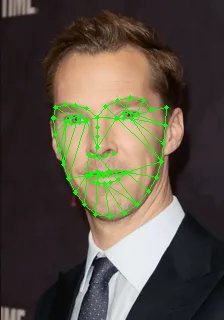
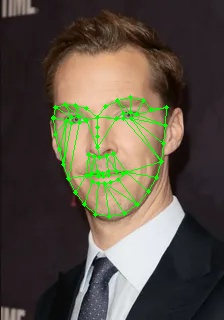
Изменено построение графа

diff --git a/FaseBiometricSystem.py b/FaseBiometricSystem.py
@@ -72,74 +72,173 @@ class FaceBiometricSystem:
         return new_x, new_y, new_w, new_h
 
     def _build_custom_face_graph(self, landmarks):
-        """Строит граф на основе пользовательских правил"""
+        """
+        Строит граф на основе пользовательских правил
+
+        Args:
+            landmarks: список точек (x, y) на лице
+
+        Returns:
+            graph: словарь {индекс_точки: [(сосед, вес), ...]}
+            edges: список ребер [(i, j, вес), ...]
+        """
         if not landmarks or len(landmarks) < 68:
-            return None
+            print(f"Предупреждение: получено {len(landmarks) if landmarks else 0} точек, ожидается 68")
+            return None, None
 
         points = np.array(landmarks)
         connections = []
 
-        # 1. КОНТУР ЛИЦА
+        # ==================== 1. КОНТУР ЛИЦА ====================
+        # Соединяем каждую соседнюю точку контура (0-16)
         for i in range(16):
             connections.append((i, i + 1))
 
-        # 2. БРОВИ
+        # ==================== 2. БРОВИ ====================
+        # Левая бровь (17-21) - соединяем соседние
         for i in range(17, 21):
             connections.append((i, i + 1))
+
+        # Правая бровь (22-26) - соединяем соседние
         for i in range(22, 26):
             connections.append((i, i + 1))
 
-        # 3. НОС
+        # ==================== 3. НОС (перевернутая буква Т) ====================
+        # Вертикальная линия носа (27-28-29-30-32)
         connections.extend([
-            (27, 28), (28, 29), (29, 30), (30, 32),
+            (27, 28), (28, 29), (29, 30), (30, 33)
+        ])
+
+        # Горизонтальная линия носа (ноздри 31 и 33 к центру 32)
+        connections.extend([
             (31, 32), (32, 33)
         ])
 
-        # 4. ГЛАЗА
+        # ==================== 4. ГЛАЗА ====================
+        # Левая глаз (36-41) - обводка
         connections.extend([
-            (36, 37), (37, 38), (38, 39), (39, 40), (40, 41), (41, 36),
+            (36, 37), (37, 38), (38, 39), (39, 40), (40, 41), (41, 36)
+        ])
+
+        # Правая глаз (42-47) - обводка
+        connections.extend([
             (42, 43), (43, 44), (44, 45), (45, 46), (46, 47), (47, 42)
         ])
 
-        # 5. ГУБЫ
+        # ==================== 5. ГУБЫ ====================
+        # Внешний контур губ (48-59)
         for i in range(48, 59):
             connections.append((i, i + 1))
-        connections.append((59, 48))
+        connections.append((59, 48))  # Замыкаем внешний контур
 
+        # Внутренний контур губ (60-67)
         for i in range(60, 67):
             connections.append((i, i + 1))
-        connections.append((67, 60))
+        connections.append((67, 60))  # Замыкаем внутренний контур
 
-        # 6. СВЯЗИ
+        # ==================== 6. СВЯЗИ: ВНУТРЕННИЕ УГЛЫ ГЛАЗ К ПЕРЕНОСИЦЕ ====================
         connections.extend([
-            (39, 27), (40, 27), (42, 27), (47, 27),
-            (36, 0), (36, 1), (36, 2), (36, 3),
-            (38, 3), (39, 4),
-            (45, 16), (45, 15),
-            (46, 15), (46, 14), (46, 13),
-            (18, 37), (19, 38), (20, 39),
-            (23, 44), (24, 43), (25, 45),
-            (31, 6), (33, 10),
-            (48, 4), (48, 5), (50, 7),
-            (54, 11), (54, 12), (54, 13),
-            (57, 10), (57, 8), (57, 9),
-            (17, 0), (22, 13),
-            (27, 21), (27, 22),
-            (30, 39), (30, 42)
+            (39, 27),  # Левый глаз (внутренний верхний) к переносице
+            (40, 27),  # Левый глаз (внутренний нижний) к переносице
+            (42, 27),  # Правый глаз (внутренний верхний) к переносице
+            (47, 27),  # Правый глаз (внутренний нижний) к переносице
+            (33, 34),
+            (34, 35),
         ])
 
+        # ==================== 7. СВЯЗИ: ВНЕШНИЕ УГЛЫ ГЛАЗ К КОНТУРУ ЛИЦА ====================
+        connections.extend([
+            (36, 0),  # Левый глаз (внешний угол) к левой верхней точке контура
+            (36, 1),  # Левый глаз (внешний угол) к левой верхней точке контура
+            (36, 2),  # Левый глаз (внешний угол) к левой верхней точке контура
+            (36, 3),  # Левый глаз (внешний угол) к левой верхней точке контура
+            (41, 3),  # Левый глаз (внешний угол) к левой верхней точке контура
+            (40, 4),  # Левый глаз (нижний внешний) к левой средней точке контура
+            (45, 16),  # Правый глаз (верхний внешний) к правой верхней точке контура
+            (45, 15),  # Правый глаз (верхний внешний) к правой верхней точке контура
+            (46, 15),  # Правый глаз (нижний внешний) к правой средней точке контура
+            (46, 14),  # Правый глаз (нижний внешний) к правой средней точке контура
+            (46, 13),  # Правый глаз (нижний внешний) к правой средней точке контура
+        ])
+
+        # ==================== 8. СВЯЗИ: БРОВИ К ВЕРХНИМ ТОЧКАМ ГЛАЗ ====================
+        connections.extend([
+            (18, 37),  # Левая бровь (внешняя середина) к левому глазу
+            (19, 38),  # Левая бровь (центр) к центру левого глаза
+            (19, 37),  # Левая бровь (центр) к центру левого глаза
+            (20, 38),  # Левая бровь (внутренняя середина) к внутреннему углу левого глаза
+            (20, 39),  # Левая бровь (внутренняя середина) к внутреннему углу левого глаза
+
+            (23, 44),  # Правая бровь (внутренняя середина) к центру правого глаза
+            (23, 43),  # Правая бровь (центр) к внутреннему углу правого глаза
+            (24, 44),  # Правая бровь (центр) к внутреннему углу правого глаза
+            (25, 45),  # Правая бровь (внешняя середина) к внешнему углу правого глаза
+            (26, 16),  # Правая бровь к контору лица
+        ])
+
+        # ==================== 9. СВЯЗИ: НОЗДРИ К КОНТУРУ ЛИЦА ====================
+        connections.extend([
+            (31, 48),
+            (31, 49),
+            (32, 49),
+            (32, 50),
+            (34, 53),
+            (34, 52),
+            (35, 53),
+            (35, 54),
+            (59, 6),  # Левая ноздря к левой средней точке контура
+            (55, 10),  # Правая ноздря к правой средней точке контура
+        ])
+
+        # ==================== 10. СВЯЗИ: УГОЛКИ ГУБ К КОНТУРУ ЛИЦА ====================
+        connections.extend([
+            (48, 4),  # Левый угол рта к нижней левой точке контура
+            (48, 5),  # Левый угол рта к нижней левой точке контура
+            (58, 7),  # Левый угол рта к нижней левой точке контура
+            (54, 11),  # Правый угол рта к нижней правой точке контура
+            (54, 12),  # Правый угол рта к нижней правой точке контура
+            (54, 13),  # Правый угол рта к нижней правой точке контура
+            (57, 10),  # Центр нижней губы к подбородку
+            (57, 8),  # Центр нижней губы к подбородку
+            (57, 9),  # Центр нижней губы к подбородку
+        ])
+
+        # ==================== ДОПОЛНИТЕЛЬНЫЕ СВЯЗИ ДЛЯ УЛУЧШЕНИЯ ====================
+        # Связи бровей с контуром лица
+        connections.extend([
+            (17, 0),  # Левая бровь (внешний край) к контуру
+            # (21, 4),  # Левая бровь (внутренний край) к контуру
+            (47, 13),  # Правая бровь (внутренний край) к контуру
+            # (26, 12),  # Правая бровь (внешний край) к контуру
+        ])
+
+        # Связи носа с бровями
+        connections.extend([
+            (27, 21),  # Переносица к левой брови
+            (27, 22),  # Переносица к правой брови
+        ])
+        # Кончик носа и уголки глаз
+        connections.extend([
+            (30, 39),
+            (30, 42),
+        ])
+
+        # Удаляем дубликаты
         connections = list(set(connections))
 
         # Создаем граф с весами
         n_points = len(points)
+        graph = {i: [] for i in range(n_points)}
         edges = []
 
         for i, j in connections:
             if i < n_points and j < n_points:
                 dist = self._calculate_distance(points[i], points[j])
+                graph[i].append((j, dist))
+                graph[j].append((i, dist))
                 edges.append((i, j, dist))
 
-        return edges
+        return edges #graph,
 
     def _extract_edge_features(self, landmarks, edges, reference_edge=(39, 4)):
         """Извлекает характеристики ребер"""

diff --git a/main_with_graph_k-neib.py b/main_with_graph_k-neib.py
@@ -99,7 +99,7 @@ def build_custom_face_graph(landmarks):
     # ==================== 3. НОС (перевернутая буква Т) ====================
     # Вертикальная линия носа (27-28-29-30-32)
     connections.extend([
-        (27, 28), (28, 29), (29, 30), (30, 32)
+        (27, 28), (28, 29), (29, 30), (30, 33)
     ])
 
     # Горизонтальная линия носа (ноздри 31 и 33 к центру 32)
@@ -135,6 +135,8 @@ def build_custom_face_graph(landmarks):
         (40, 27),  # Левый глаз (внутренний нижний) к переносице
         (42, 27),  # Правый глаз (внутренний верхний) к переносице
         (47, 27),  # Правый глаз (внутренний нижний) к переносице
+        (33, 34),
+        (34, 35),
     ])
 
     # ==================== 7. СВЯЗИ: ВНЕШНИЕ УГЛЫ ГЛАЗ К КОНТУРУ ЛИЦА ====================
@@ -143,8 +145,8 @@ def build_custom_face_graph(landmarks):
         (36, 1),  # Левый глаз (внешний угол) к левой верхней точке контура
         (36, 2),  # Левый глаз (внешний угол) к левой верхней точке контура
         (36, 3),  # Левый глаз (внешний угол) к левой верхней точке контура
-        (38, 3),  # Левый глаз (внешний угол) к левой верхней точке контура
-        (39, 4),  # Левый глаз (нижний внешний) к левой средней точке контура
+        (41, 3),  # Левый глаз (внешний угол) к левой верхней точке контура
+        (40, 4),  # Левый глаз (нижний внешний) к левой средней точке контура
         (45, 16),  # Правый глаз (верхний внешний) к правой верхней точке контура
         (45, 15),  # Правый глаз (верхний внешний) к правой верхней точке контура
         (46, 15),  # Правый глаз (нижний внешний) к правой средней точке контура
@@ -156,24 +158,36 @@ def build_custom_face_graph(landmarks):
     connections.extend([
         (18, 37),  # Левая бровь (внешняя середина) к левому глазу
         (19, 38),  # Левая бровь (центр) к центру левого глаза
+        (19, 37),  # Левая бровь (центр) к центру левого глаза
+        (20, 38),  # Левая бровь (внутренняя середина) к внутреннему углу левого глаза
         (20, 39),  # Левая бровь (внутренняя середина) к внутреннему углу левого глаза
 
         (23, 44),  # Правая бровь (внутренняя середина) к центру правого глаза
-        (24, 43),  # Правая бровь (центр) к внутреннему углу правого глаза
+        (23, 43),  # Правая бровь (центр) к внутреннему углу правого глаза
+        (24, 44),  # Правая бровь (центр) к внутреннему углу правого глаза
         (25, 45),  # Правая бровь (внешняя середина) к внешнему углу правого глаза
+        (26, 16),  # Правая бровь к контору лица
     ])
 
     # ==================== 9. СВЯЗИ: НОЗДРИ К КОНТУРУ ЛИЦА ====================
     connections.extend([
-        (31, 6),  # Левая ноздря к левой средней точке контура
-        (33, 10),  # Правая ноздря к правой средней точке контура
+        (31, 48),
+        (31, 49),
+        (32, 49),
+        (32, 50),
+        (34, 53),
+        (34, 52),
+        (35, 53),
+        (35, 54),
+        (59, 6),  # Левая ноздря к левой средней точке контура
+        (55, 10),  # Правая ноздря к правой средней точке контура
     ])
 
     # ==================== 10. СВЯЗИ: УГОЛКИ ГУБ К КОНТУРУ ЛИЦА ====================
     connections.extend([
         (48, 4),  # Левый угол рта к нижней левой точке контура
         (48, 5),  # Левый угол рта к нижней левой точке контура
-        (50, 7),  # Левый угол рта к нижней левой точке контура
+        (58, 7),  # Левый угол рта к нижней левой точке контура
         (54, 11),  # Правый угол рта к нижней правой точке контура
         (54, 12),  # Правый угол рта к нижней правой точке контура
         (54, 13),  # Правый угол рта к нижней правой точке контура
@@ -187,7 +201,7 @@ def build_custom_face_graph(landmarks):
     connections.extend([
         (17, 0),  # Левая бровь (внешний край) к контуру
         # (21, 4),  # Левая бровь (внутренний край) к контуру
-        (22, 13),  # Правая бровь (внутренний край) к контуру
+        (47, 13),  # Правая бровь (внутренний край) к контуру
         # (26, 12),  # Правая бровь (внешний край) к контуру
     ])
 
@@ -298,7 +312,7 @@ def main():
 
 
     # Загрузка изображения
-    image = cv2.imread('face.jpg')
+    image = cv2.imread('martin_friman_face.jpg')#'face.jpg')
     if image is None:
         print("Ошибка: Не удалось загрузить изображение")
         return